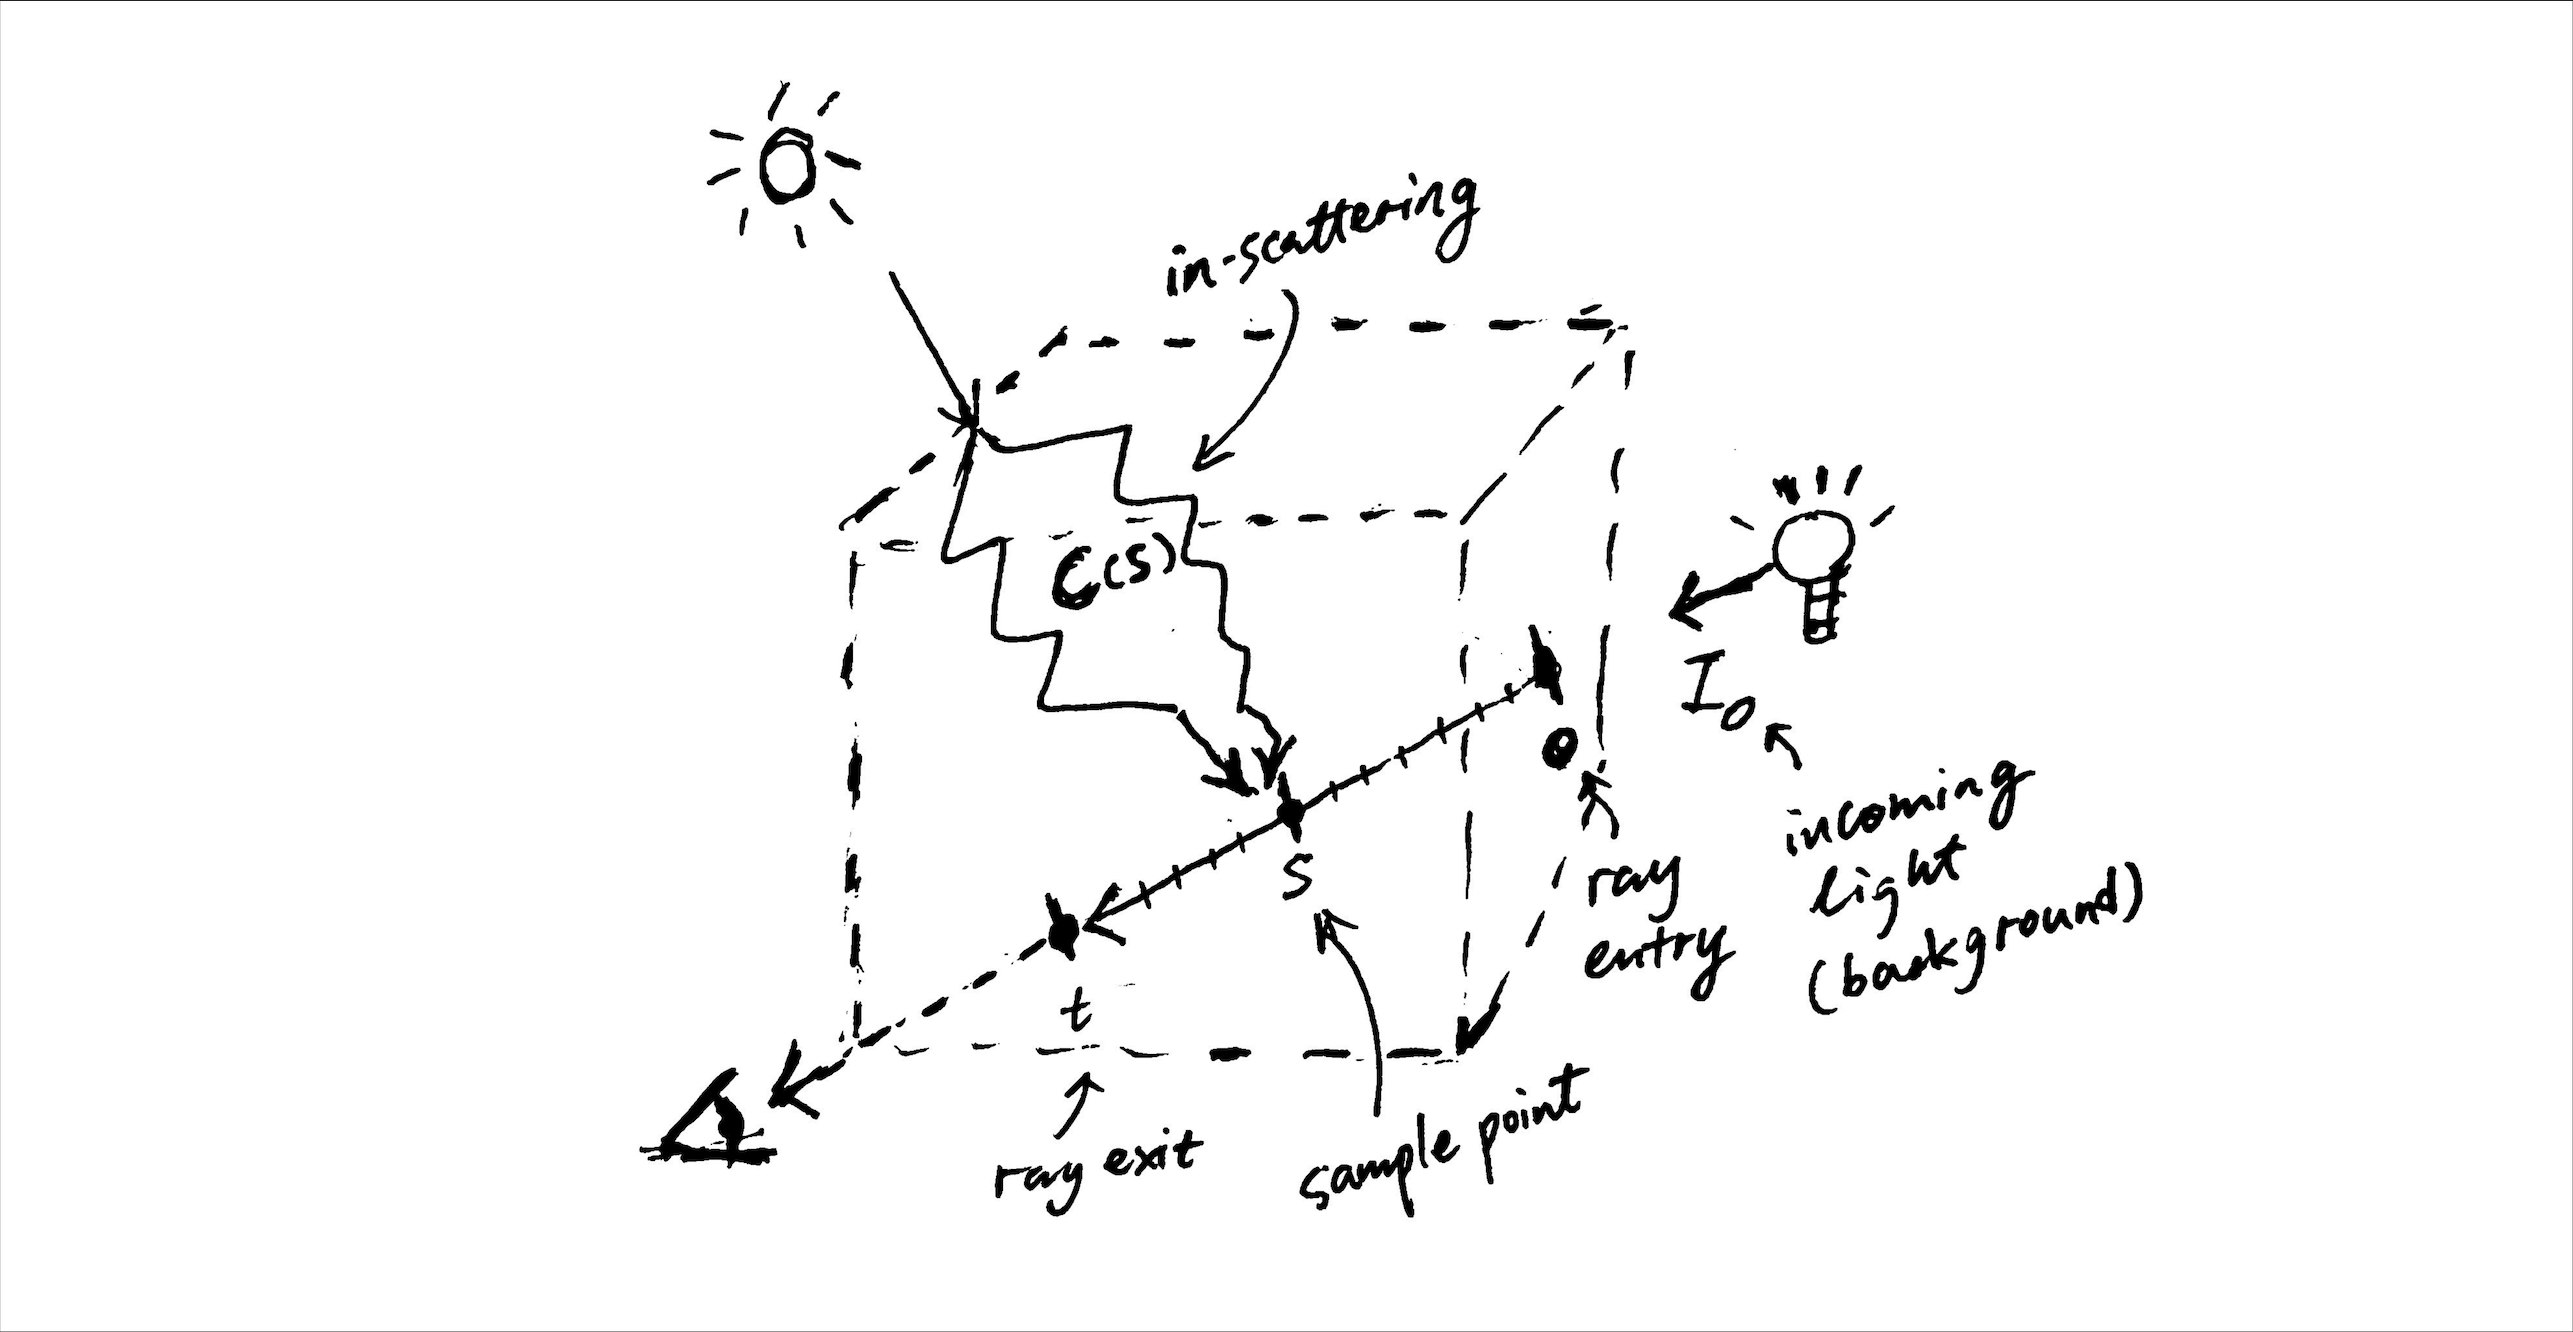
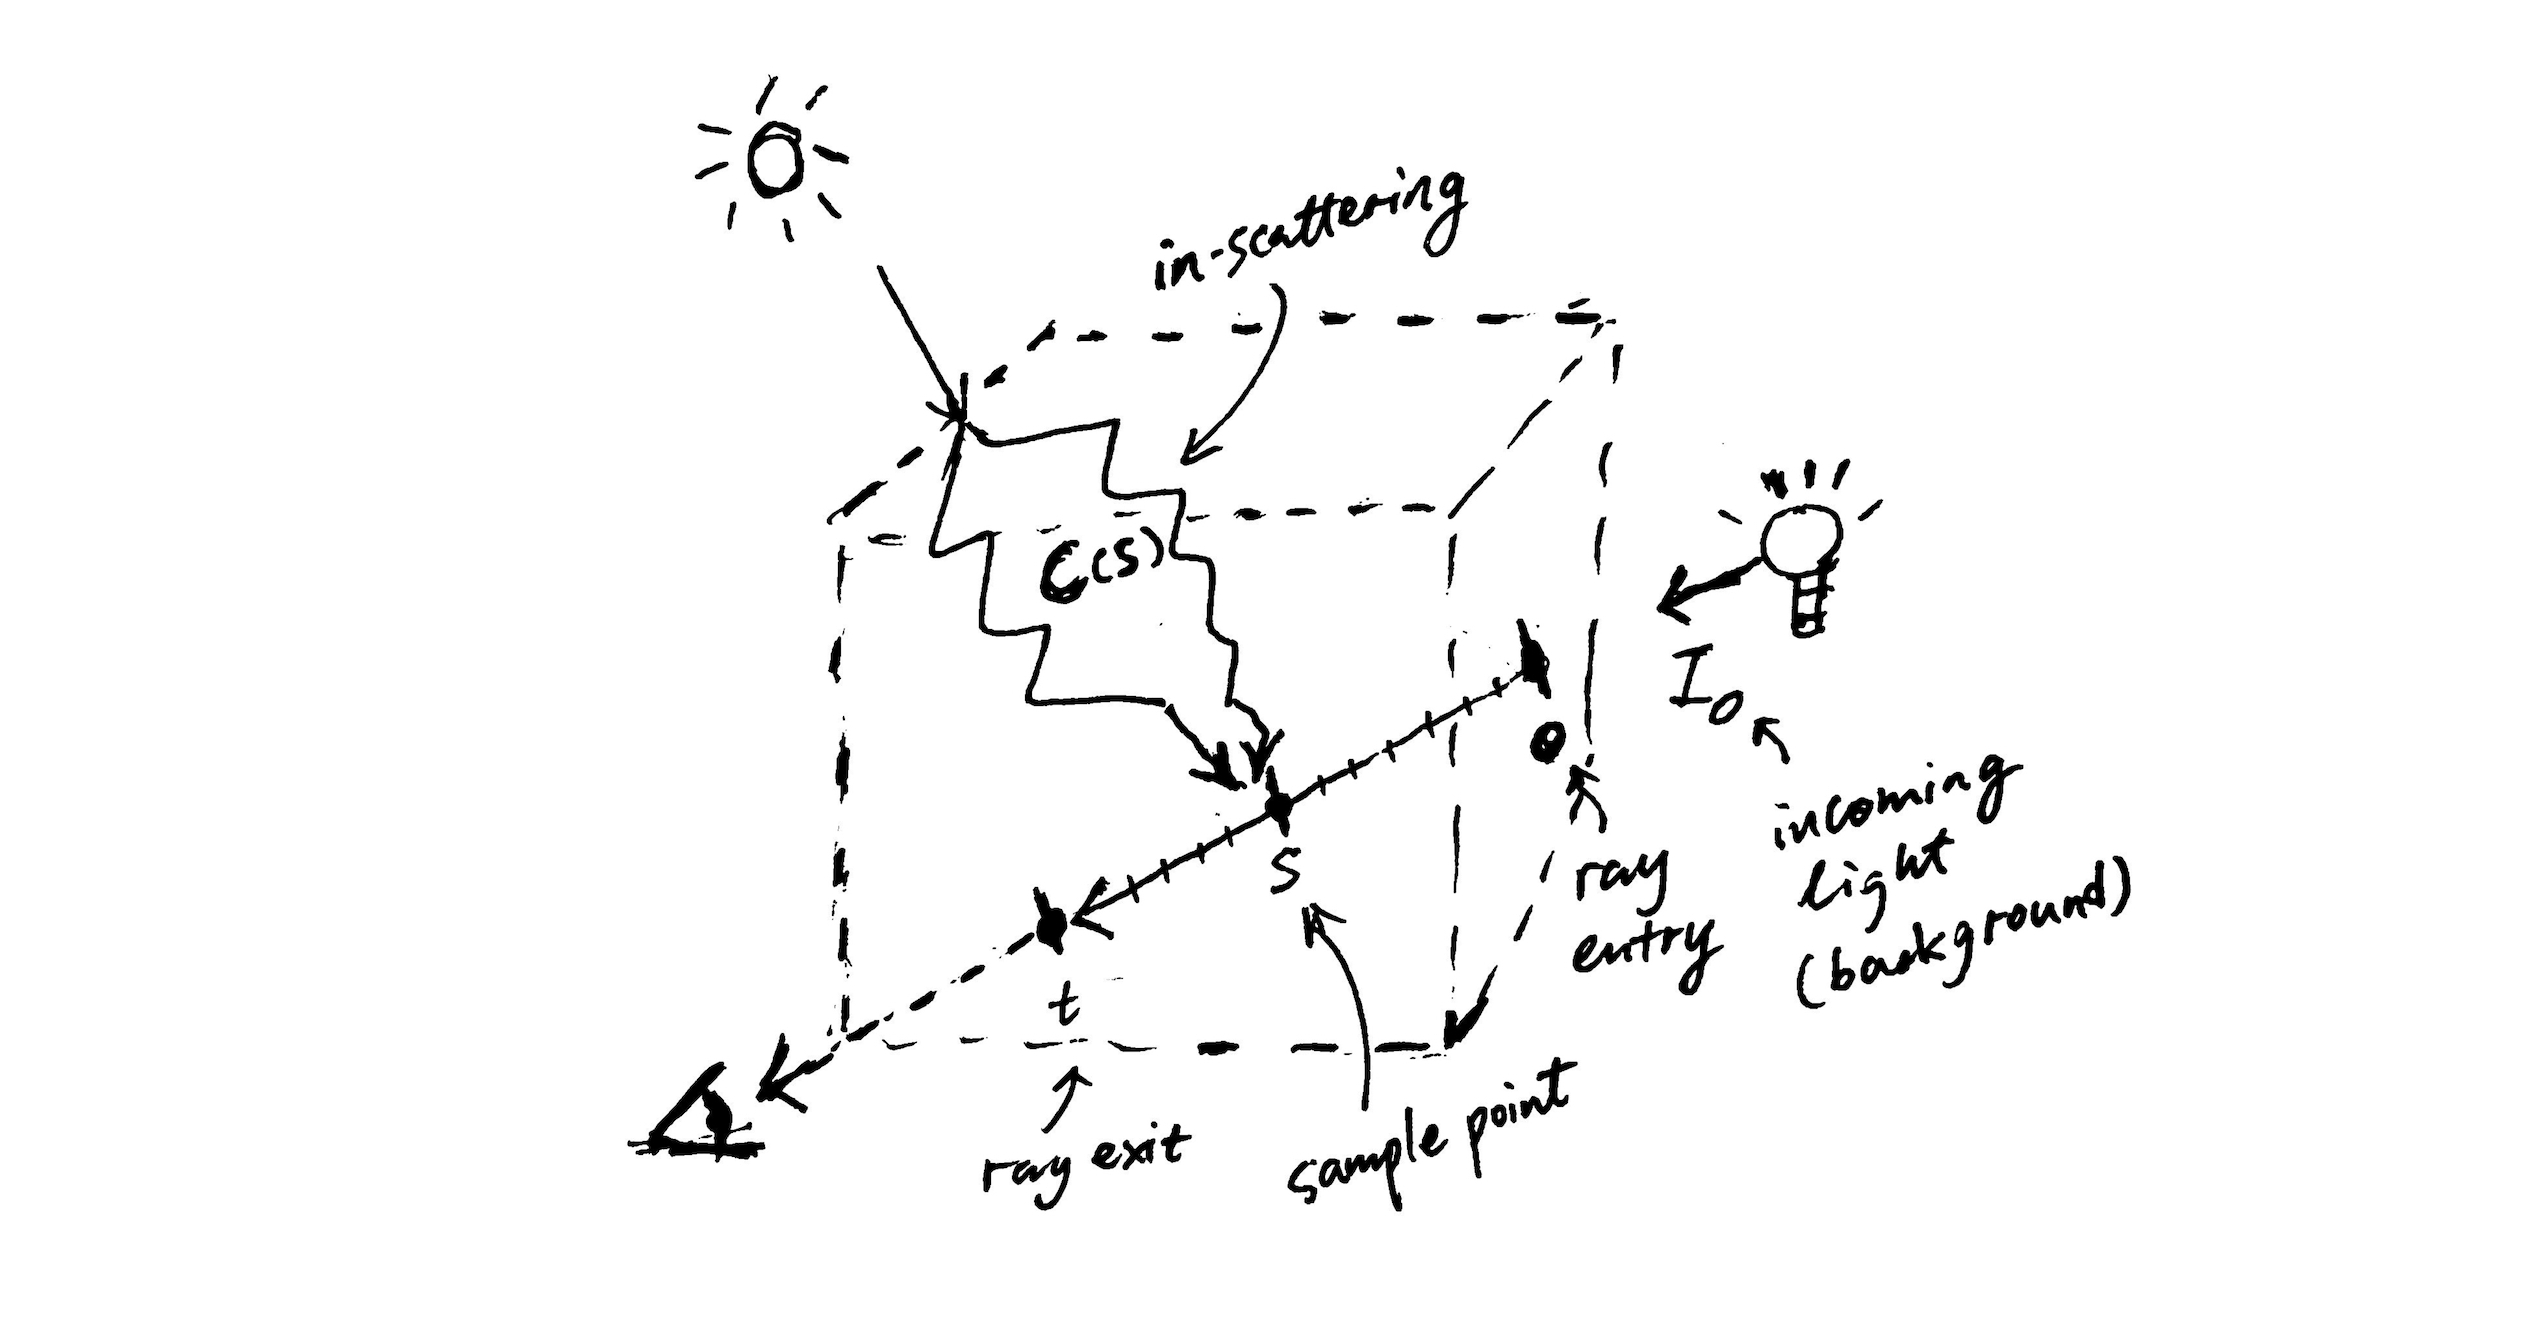
color blend

diff --git a/personas.html b/personas.html
@@ -62,7 +62,7 @@
         
             
             <a class="mono-link" href="#interface"><h2 id="interface">I. Interface</h2></a>
-            <img src="./assets/img/personas/interfaces.png">
+            <img src="./assets/img/personas/interfaces.png"  class="mix-multiply">
             <p>The main interface of the Coffee Vendor is a large touch screen with an ordering software. 
                 On the right to the touch screen are slots for card swipe and cash insertion, 
                 and an NFC sensor for contactless payment. Other physical components include the cup 
@@ -104,7 +104,7 @@
                 one of them so she decides to buy two cups of coffee at the Coffee Vendor. Joy represents 
                 the user group who have previous experience of ordering coffee through a digital platform 
                 but have not used coffee vendors before.</p>
-            <img src="assets/img/personas/persona_joy.png">
+            <img src="assets/img/personas/persona_joy.png" class="mix-multiply">
 
             <a class="mono-link" href="#persona-frank"><h3 id="persona-frank">Persona 2. Frank</h3></a>
             <p>Frank is a coffee lover who makes himself coffee with his coffee machine daily. Today he 
@@ -112,10 +112,10 @@
                 used this type of device before but he thinks it won't be that much different from the 
                 coffee machine he uses everyday. Frank represents the user group who regularly make coffee 
                 themselves and are more used to interacting with a regular coffee machine.</p>
-            <img src="assets/img/personas/persona_frank.png">
+            <img src="assets/img/personas/persona_frank.png" class="mix-multiply">
 
             <a class="mono-link" href="#storyboarding"><h2 id="storyboarding">IV. Storyboarding</h2></a>
-            <img src="assets/img/personas/storyboard.png">
+            <img src="assets/img/personas/storyboard.png" class="mix-multiply">
 
         </div>
     </main>

diff --git a/clouds.html b/clouds.html
@@ -82,7 +82,7 @@
                 This reduces the quadratic number of candidate neighbors dramatically to 27 (constant!) in 3D since we can easily find the cell
                 any point belongs. Here is an illustration for the 2D case as they're easier to draw.
             </p>
-            <img src="./assets/img/clouds/stratified.jpg"></img>
+            <img src="./assets/img/clouds/stratified.jpg" class="mix-multiply"></img>
             <p>
                 For even greater efficiency, we send the grid points to a compute shader, which calculates a 
                 3D noise map with hundreds of GPU cores. Long live parallelism!
@@ -128,9 +128,9 @@
                 For light travelling through a heterogeneous medium, we can modify the equation above slightly to acount for the varying medium density.
             </p>
             <img src="./assets/img/clouds/eq/eq_beer_hetero.svg" class="eq-block" style="height: 2.2rem">
-            We can find this type of attenuation at multiple spots in the volume rendering equation.
+            This type of attenuation can be found at multiple spots in the volume rendering equation.
             <img src="./assets/img/clouds/eq/eq_volume.svg" class="eq-block" style="height: 5.1rem">
-            <img src="./assets/img/clouds/volume.jpeg" alt="Diagram showing different terms in the volume rendering equation.">
+            <img src="./assets/img/clouds/volume.jpeg" alt="Diagram showing different terms in the volume rendering equation." class="mix-multiply">
             Still under construction ('cuz Lemur just finished this project two days ago. Sorry about that! 😢)
 
 

diff --git a/redesign.html b/redesign.html
@@ -96,10 +96,10 @@
             
             <a class="mono-link" href="#visual-redesign"><h2 id="visual-redesign">II. Visual Redesign</h2></a>
             <a class="mono-link" href="#wireframing"><h3 id="wireframing">Wireframing</h3></a>
-            <img src="assets/img/redesign/lofi-annotated.jpg">
+            <img src="assets/img/redesign/lofi-annotated.jpg" class="mix-multiply">
             <a class="mono-link" href="#prototyping"><h3 id="prototyping">Prototyping</h3></a>
-            <img src="assets/img/redesign/style.png">
-            <img src="assets/img/redesign/hifi-annotated.png">
+            <img src="assets/img/redesign/style.png" class="mix-multiply">
+            <img src="assets/img/redesign/hifi-annotated.png"  class="mix-multiply">
             <a class="mono-link" href="#responsiveness-demo"><h2 id="responsiveness-demo">III. Responsiveness Demo</h2></a>
             <video controls="" src="./assets/img/redesign/responsive-home.mov"></video>
             <video controls="" src="./assets/img/redesign/responsive-research.mov"></video>

diff --git a/iterative.html b/iterative.html
@@ -95,7 +95,7 @@
 
             <a class="mono-link" href="#wireframing"><h3 id="wireframing">Wireframing</h3></a>
             <p> After finishing the drafting and discussing our solutions, we combined our idea and made the following wireframe, which includes four pages of the interface.</p>
-            <img src="http://csci1300-iterative-design-and-evaluation.s3-website-us-east-1.amazonaws.com/assets/wf-final.png">
+            <img src="http://csci1300-iterative-design-and-evaluation.s3-website-us-east-1.amazonaws.com/assets/wf-final.png"  class="mix-multiply">
             
             
             <a class="mono-link" href="#hifi-mockup"><h2 id="hifi-mockup">II. Hi-Fi Mockup</h2></a>

diff --git a/css/style.css b/css/style.css
@@ -74,6 +74,10 @@ a.mono-link:hover {
     color: #4f4f4f !important;
 }
 
+.mix-multiply {
+    mix-blend-mode: multiply;
+}
+
 
 .pr-1 {
     padding-right: 0.5rem;
